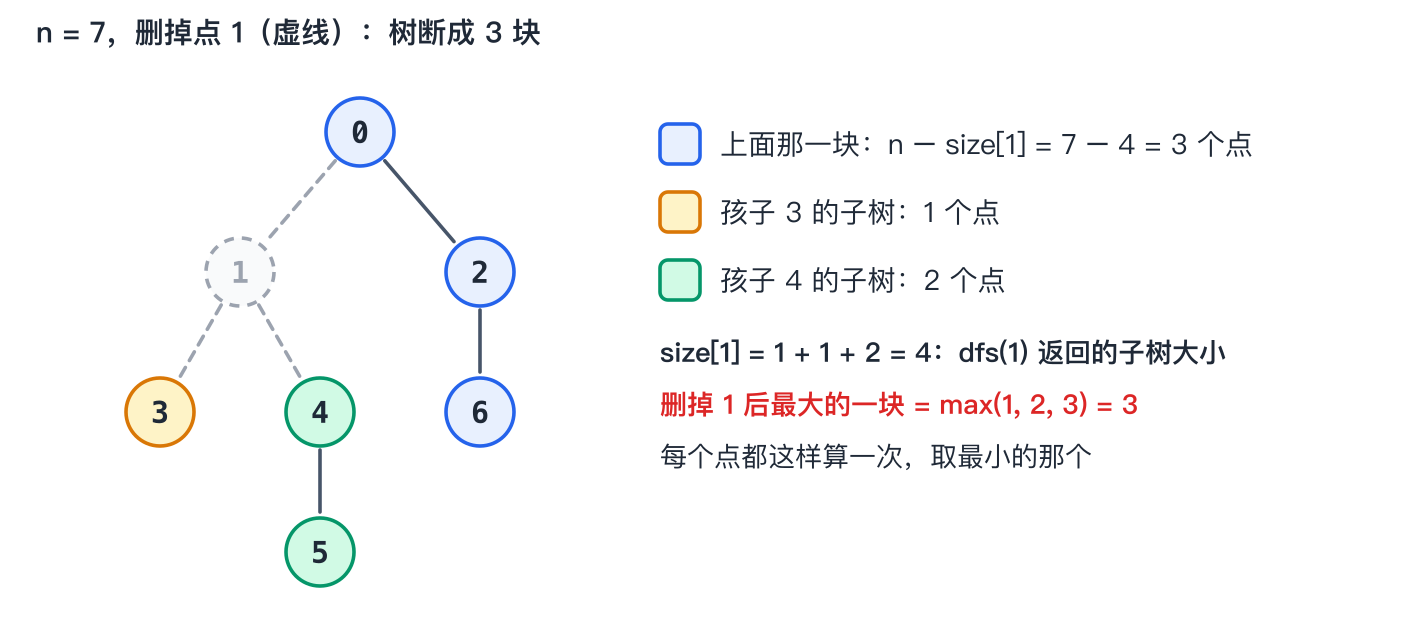
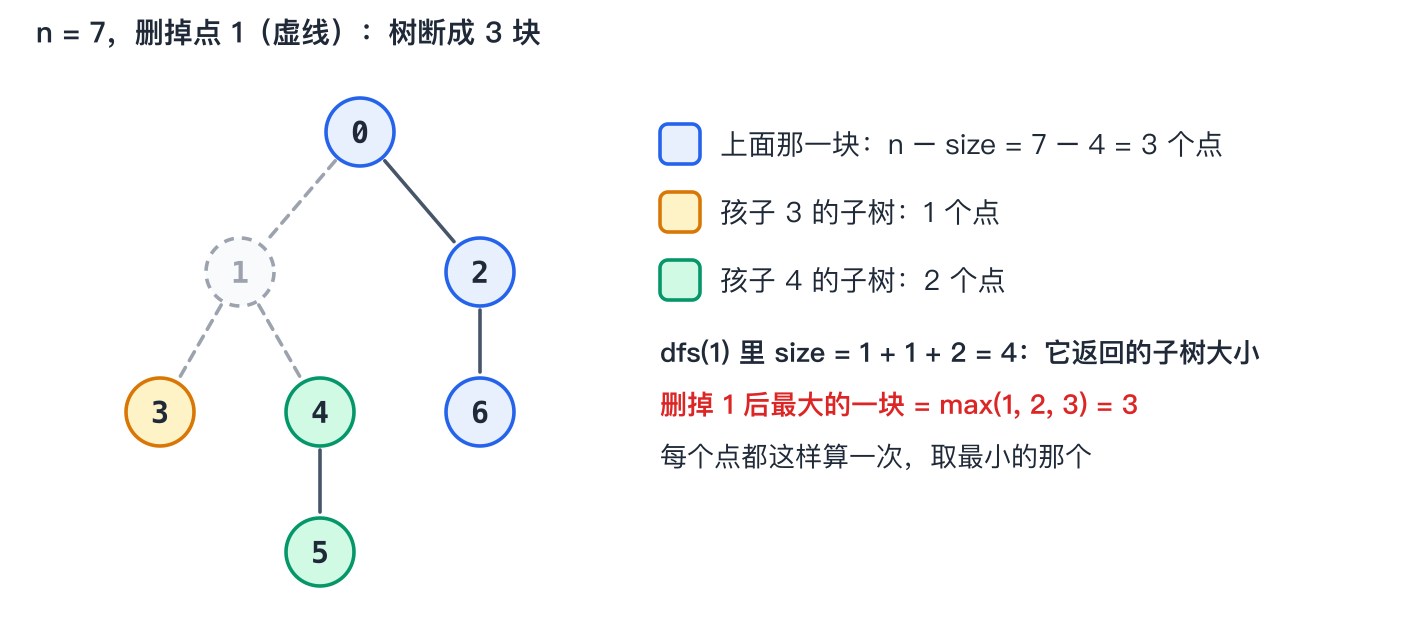
Redraw eight diagrams after second review of templates
Labels and titles now match the code and text beside them.

diff --git a/lc_r.py b/lc_r.py
@@ -145,8 +145,8 @@ def cost_trace():
     a, b = dp[i - 1] + cost[i - 1], dp[i - 2] + cost[i - 2]
     lines(s, LX, y2 + 78,
           [(f'dp[i]：站到第 i 阶上，最少已经付了多少。dp[0] = dp[1] = 0：可以直接从第 0 阶或第 1 阶出发（灰）', INK, False),
-           (f'算 dp[{i}]：从第 {i - 1} 阶跨 1 步上来，dp[{i - 1}] + cost[{i - 1}] = {dp[i - 1]} + {cost[i - 1]} = {a}；'
-            f'从第 {i - 2} 阶跨 2 步上来，dp[{i - 2}] + cost[{i - 2}] = {dp[i - 2]} + {cost[i - 2]} = {b}', 'red', False),
+           (f'算 dp[{i}]：从第 {i - 1} 阶跨 1 阶上来，dp[{i - 1}] + cost[{i - 1}] = {dp[i - 1]} + {cost[i - 1]} = {a}；'
+            f'从第 {i - 2} 阶跨 2 阶上来，dp[{i - 2}] + cost[{i - 2}] = {dp[i - 2]} + {cost[i - 2]} = {b}', 'red', False),
            (f'取小的：dp[{i}] = min({a}, {b}) = {dp[i]}。楼顶是下标 {n}（数组外面一格），答案 dp[{n}] = {dp[n]}', 'grn')], gap=25)
     s.save('lcr-cost-trace')
 
@@ -393,7 +393,7 @@ def grid_idea():
     m, n, r, c = 4, 5, 2, 3
     s = S()
     X, Y = 60, 60
-    s.text(LX, 20, 'dp[row][col]：走到这一格的答案。只能往右或往下走，所以走进一个格子只有两条路', 15, INK, 'start', bold=True)
+    s.text(LX, 20, 'dp[row][col]：走到这一格的答案。只能往右或往下走，所以走进一个格子的最后一步只有两种', 15, INK, 'start', bold=True)
     headers(s, X, Y, m, n, 58)
 
     def st(i, j):
@@ -631,8 +631,8 @@ def square_why():
            ('蓝框：以「上」为右下角的最大正方形', 'blue'), ('橙框：以「左」为右下角的最大正方形', 'org'),
            ('紫框：以「左上」为右下角的最大正方形', 'pur'),
            ('绿虚线：以这一格为右下角能得到的最大正方形', 'grn'),
-           '边长 k 的正方形 = 蓝、橙、紫三个都至少有 k − 1，',
-           '再加上绿格自己。三个里最短的那个卡住了 k，',
+           '三个邻居里最小的是 k：蓝、橙、紫三个框里都有 k × k，',
+           '再加上绿格自己，正好拼出 (k + 1) × (k + 1)，',
            ('所以 dp = min(上, 左, 左上) + 1', INK)], gap=25)
     s.save('lcr-square-why')
 

diff --git a/make_diagrams_algo.py b/make_diagrams_algo.py
@@ -310,20 +310,22 @@ def bs_four():
 
 def bs_answer():
     s = S()
+    x = 8
     X, y, cw = 170, 50, 50
-    s.text(LX, 18, '求 n = 10 的平方根（向下取整）：check(x) = x * x > n', 14.5, INK, 'start', bold=True)
-    xs = list(range(11))
-    s.text(LX, y + 17, 'x', 15, INK, 'start', bold=True, mono=True)
-    cs = row(s, X, y, xs, ['sent' if v * v <= 10 else 'hit' for v in xs], cw=cw)
-    s.text(LX, y + 54, 'x * x', 14, SUB, 'start', mono=True)
-    s.text(LX, y + 80, 'check(x)', 14, SUB, 'start', mono=True)
-    for v, c in zip(xs, cs):
+    s.text(LX, 18, f'求 x = {x} 的平方根（向下取整）：条件是 mid * mid > x', 14.5, INK, 'start', bold=True)
+    mids = list(range(x + 1))
+    s.text(LX, y + 17, 'mid', 15, INK, 'start', bold=True, mono=True)
+    cs = row(s, X, y, mids, ['sent' if v * v <= x else 'hit' for v in mids], cw=cw)
+    s.text(LX, y + 54, 'mid * mid', 14, SUB, 'start', mono=True)
+    s.text(LX, y + 80, 'mid * mid > x', 14, SUB, 'start', mono=True)
+    for v, c in zip(mids, cs):
         s.text(c, y + 54, v * v, 13, SUB, mono=True)
-        s.text(c, y + 80, '是' if v * v > 10 else '否', 15, COL['grn' if v * v > 10 else 'gry'], bold=True)
-    s.arrow(cs[4], y + 118, cs[4], y + 96, 'grn')
-    s.text(cs[4] - 8, y + 130, '第一个「是」：first_true 返回 4', 13.5, COL['grn'], 'start', bold=True)
-    s.arrow(cs[3], y + 118, cs[3], y + 96, 'red')
-    s.text(cs[3] + 8, y + 130, '答案 = 4 − 1 = 3', 13.5, COL['red'], 'end', bold=True)
+        s.text(c, y + 80, '是' if v * v > x else '否', 15, COL['grn' if v * v > x else 'gry'], bold=True)
+    first = next(v for v in mids if v * v > x)
+    s.arrow(cs[first], y + 118, cs[first], y + 96, 'grn')
+    s.text(cs[first] - 8, y + 130, f'第一个「是」：循环结束时 left = {first}', 13.5, COL['grn'], 'start', bold=True)
+    s.arrow(cs[first - 1], y + 118, cs[first - 1], y + 96, 'red')
+    s.text(cs[first - 1] + 8, y + 130, f'答案 = {first} − 1 = {first - 1}', 13.5, COL['red'], 'end', bold=True)
     s.save('alg-bs-answer')
 
 

diff --git a/make_diagrams_graph.py b/make_diagrams_graph.py
@@ -87,12 +87,12 @@ def centroid():
     graph(s, 30, 66, pos, es, st, directed=False)
     s.text(LX, 16, 'n = 7，删掉点 1（虚线）：树断成 3 块', 14.5, INK, 'start', bold=True)
     x = 330
-    for k, (stl, t) in enumerate((('n', '上面那一块：n − size[1] = 7 − 4 = 3 个点'), ('new', '孩子 3 的子树：1 个点'),
+    for k, (stl, t) in enumerate((('n', '上面那一块：n − size = 7 − 4 = 3 个点'), ('new', '孩子 3 的子树：1 个点'),
                                   ('hit', '孩子 4 的子树：2 个点'))):
         f, kk, _, d = ST[stl]
         s.rect(x, 62 + k * 34, 20, 20, f, kk, d, rx=4)
         s.text(x + 30, 72 + k * 34, t, 14, INK, 'start')
-    lines(s, x, 176, [('size[1] = 1 + 1 + 2 = 4：dfs(1) 返回的子树大小', INK), ('删掉 1 后最大的一块 = max(1, 2, 3) = 3', 'red'),
+    lines(s, x, 176, [('dfs(1) 里 size = 1 + 1 + 2 = 4：它返回的子树大小', INK), ('删掉 1 后最大的一块 = max(1, 2, 3) = 3', 'red'),
                       '每个点都这样算一次，取最小的那个'], gap=26)
     s.save('gr-centroid')
 
@@ -547,7 +547,7 @@ def floyd_trace():
              lambda i, j: 'chg' if (i, j) in ch else 'new' if kk in (i, j) else 'off', cw=46, size=15)
         s.text(ox, oy + 182, cap, 13, COL['red'] if ch else INK, 'start', bold=bool(ch))
 
-    panel_grid('gr-floyd-trace', 4, 225, 240, draw, titles=['初始'] + [f'k = {k}：允许经过 {k}' for k in range(n)],
+    panel_grid('gr-floyd-trace', 4, 225, 240, draw, titles=['初始'] + [f'k = {k}：允许经过 ' + '、'.join(map(str, range(k + 1))) for k in range(n)],
                leg=[('new', '第 k 行、第 k 列：这一轮用来中转的值'), ('chg', '被改小的格子')])
 
 

diff --git a/lc_a.py b/lc_a.py
@@ -74,19 +74,19 @@ def bs_koko():
     s = S()
     piles, h = [3, 6, 7, 11], 8
     X, y, cw = 170, 50, 50
-    s.text(LX, 18, 'LC 875：piles = [3, 6, 7, 11]，h = 8。check(k) = 用速度 k 吃完要的小时数 <= 8', 14.5, INK, 'start', bold=True)
+    s.text(LX, 18, 'LC 875：piles = [3, 6, 7, 11]，h = 8。check(speed) = 用速度 speed 吃完要的小时数 <= 8', 14.5, INK, 'start', bold=True)
     ks = list(range(1, max(piles) + 1))
     hrs = [sum((p + k - 1) // k for p in piles) for k in ks]
-    s.text(LX, y + 17, '速度 k', 15, INK, 'start', bold=True)
+    s.text(LX, y + 17, '速度 speed', 15, INK, 'start', bold=True)
     cs = row(s, X, y, ks, ['hit' if t <= h else 'sent' for t in hrs], cw=cw)
     s.text(LX, y + 54, '要几小时', 14, SUB, 'start')
-    s.text(LX, y + 80, 'check(k)', 14, SUB, 'start', mono=True)
+    s.text(LX, y + 80, 'check(speed)', 14, SUB, 'start', mono=True)
     for t, c in zip(hrs, cs):
         s.text(c, y + 54, t, 13, SUB, mono=True)
         s.text(c, y + 80, '是' if t <= h else '否', 15, COL['grn' if t <= h else 'gry'], bold=True)
     first = next(i for i, t in enumerate(hrs) if t <= h)
     s.arrow(cs[first], y + 118, cs[first], y + 96, 'grn')
-    s.text(cs[first] - 8, y + 130, f'第一个「是」：答案 k = {ks[first]}', 13.5, COL['grn'], 'start', bold=True)
+    s.text(cs[first] - 8, y + 130, f'第一个「是」：答案 {ks[first]}', 13.5, COL['grn'], 'start', bold=True)
     s.text(cs[0] - 20, y + 130, '吃得越快，用时越少', 13.5, SUB, 'start')
     s.save('lca-bs-koko')
 

diff --git a/make_diagrams.py b/make_diagrams.py
@@ -1047,18 +1047,18 @@ def set_venn():
 
 
 def two_sum():
-    nums, target, pos, rows = [3, 2, 7, 15], 9, {}, []
+    nums, target, index_of, rows = [3, 2, 7, 15], 9, {}, []
     for i, x in enumerate(nums):
         need = target - x
-        have = [(f'{k}→{v}', 'hit' if k == need else 'n') for k, v in pos.items()]
-        if need in pos:
+        have = [(f'{k}→{v}', 'hit' if k == need else 'n') for k, v in index_of.items()]
+        if need in index_of:
             rows.append([('t', f'i = {i}，x = {x}', INK), ('t', f'9 - {x} = {need}', INK), have,
-                         ('t', f'有 {need}，下标 {pos[need]}  →  返回 [{pos[need]}, {i}]', 'grn')])
+                         ('t', f'有 {need}，下标 {index_of[need]}  →  返回 [{index_of[need]}, {i}]', 'grn')])
             break
         rows.append([('t', f'i = {i}，x = {x}', INK), ('t', f'9 - {x} = {need}', INK), have,
                      ('t', f'没有 {need}，把 {x}→{i} 存进去', 'gry')])
-        pos[x] = i
-    table('two-sum', ['当前', '要找的数', 'pos 里已有的（值→下标）', '结果'], [150, 130, 250, 300], rows, cw=52,
+        index_of[x] = i
+    table('two-sum', ['当前', '要找的数', 'index_of 里已有的（值→下标）', '结果'], [150, 130, 250, 300], rows, cw=52,
           foot='nums = [3, 2, 7, 15]，target = 9  →  [1, 2]')
 
 
